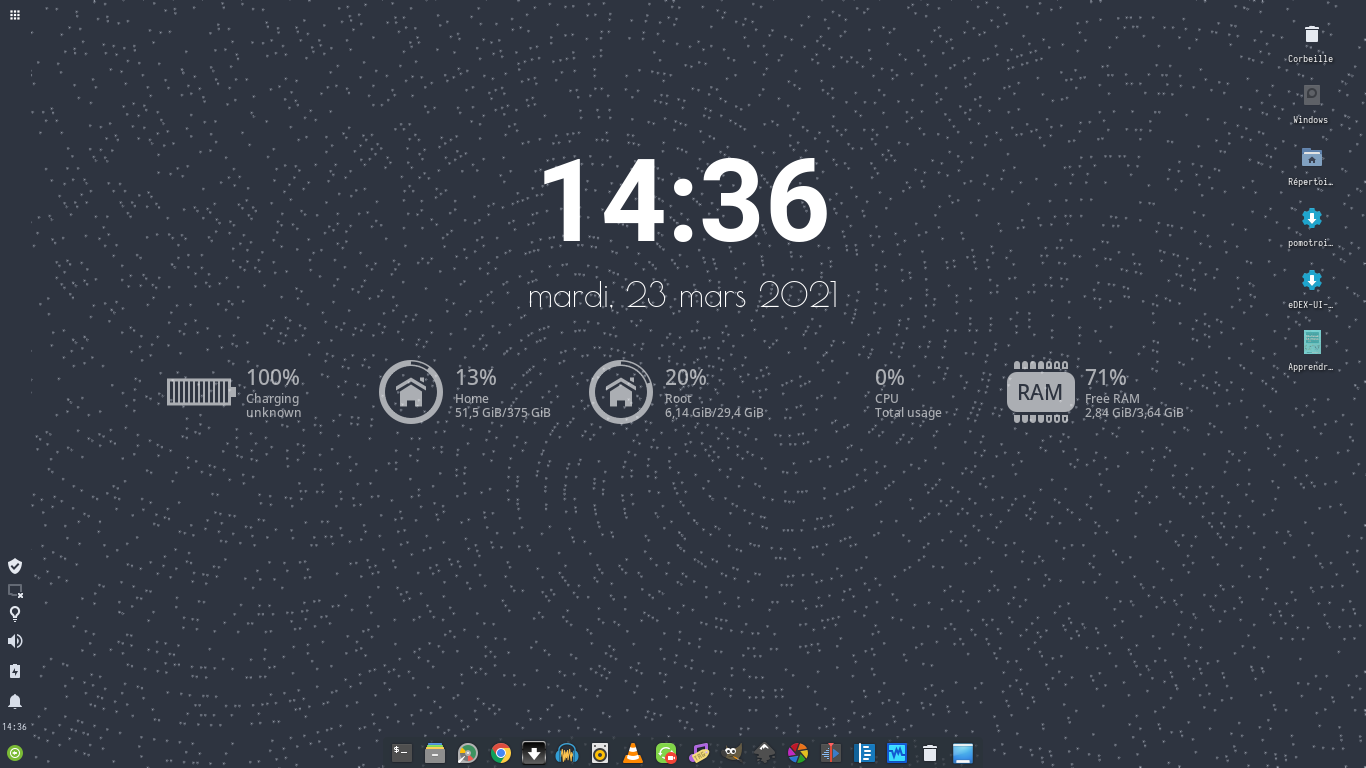
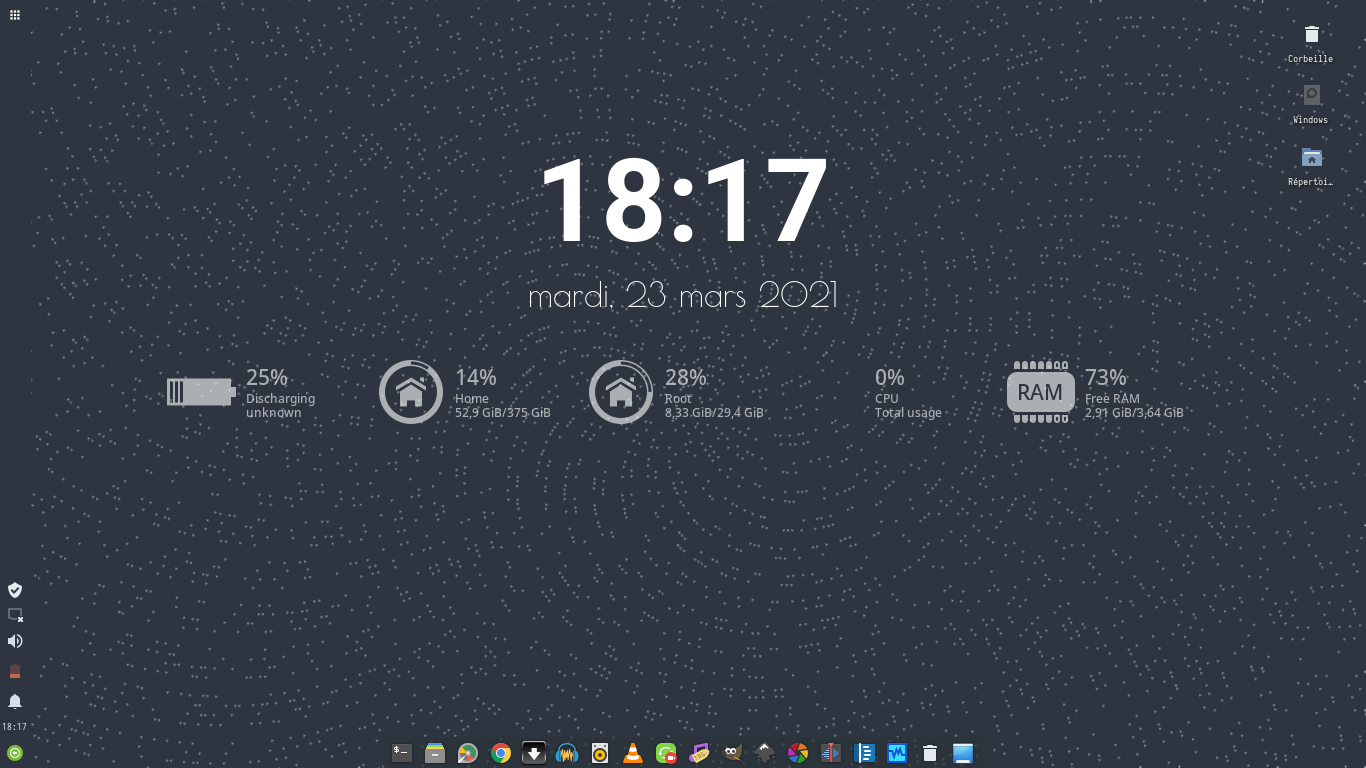
add xfce screenshot

diff --git a/README.md b/README.md
@@ -7,8 +7,9 @@ My personal backup of my dotfiles.
 ![alt text](https://raw.githubusercontent.com/berthosefin/dotfiles/main/Images/Previews/preview2.png)
 ### xfce
 ![alt text](https://raw.githubusercontent.com/berthosefin/dotfiles/main/Images/Previews/preview3.png)
-### qtile
 ![alt text](https://raw.githubusercontent.com/berthosefin/dotfiles/main/Images/Previews/preview4.png)
+### qtile
+![alt text](https://raw.githubusercontent.com/berthosefin/dotfiles/main/Images/Previews/preview5.png)
 
 ## Details
 - **Display Server** X11
